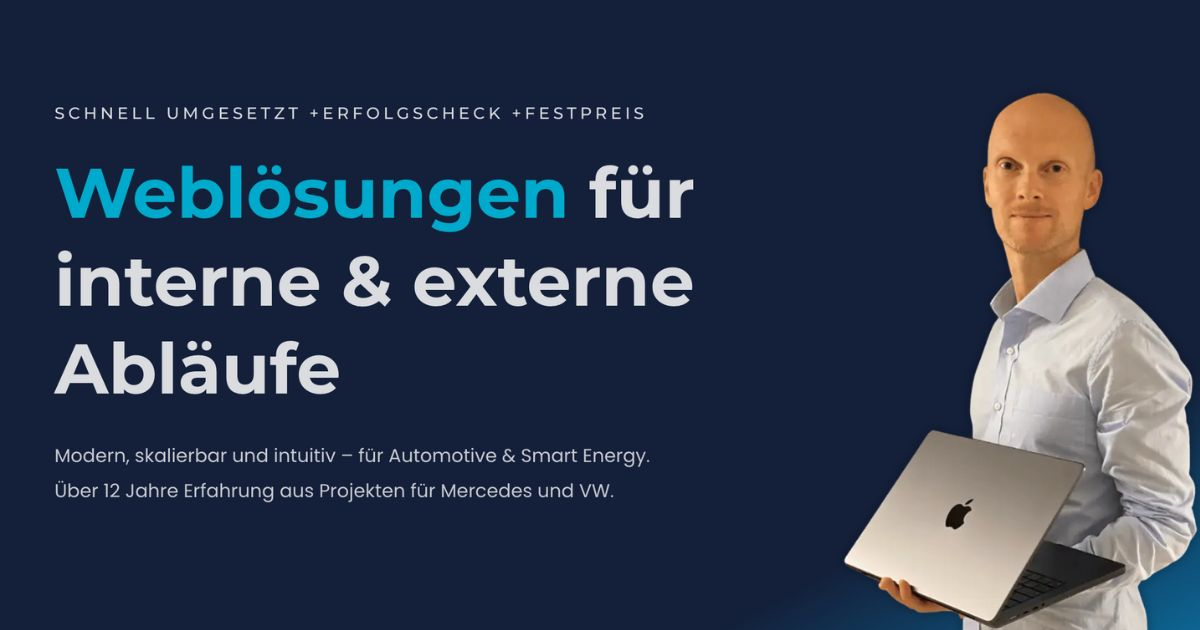
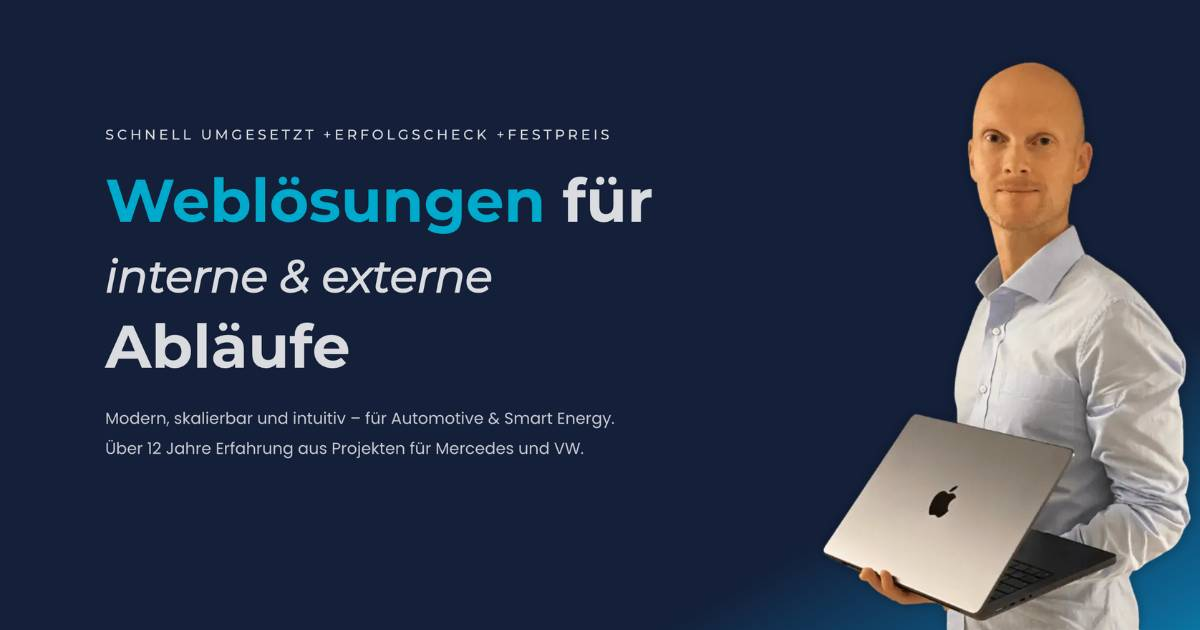
style: Adjust hero title line height and improve text formatting in Hero component

diff --git a/components/Hero.vue b/components/Hero.vue
@@ -9,17 +9,20 @@
             <div class="content">
               <div class="inner">
                 <span class="subtitle"
-                  >Schnell umgesetzt +Erfolgscheck +Festpreis</span
+                  >Schnell umgesetzt +Erfolgscheck&nbsp;+Festpreis</span
                 >
                 <h1 class="title">
-                  <span>Weblösungen</span> für interne & externe Abläufe<br />
+                  <span>Weblösungen</span> für <br /><small
+                    >interne & externe</small
+                  ><br />
+                  Abläufe<br />
                 </h1>
 
                 <div>
                   <p class="description">
-                    Modern, skalierbar und intuitiv – für Automotive & Smart
-                    Energy.<br />Über 12 Jahre Erfahrung aus Projekten für
-                    Mercedes und VW.
+                    Modern, skalierbar und intuitiv – für&nbsp;Automotive &amp;
+                    Smart Energy.<br />
+                    Über 12 Jahre Erfahrung aus Projekten für Mercedes und VW.
                   </p>
                   <a
                     href="https://meet.brevo.com/manuel-wittmann/30-minutiges-meeting"

diff --git a/assets/scss/custom.scss b/assets/scss/custom.scss
@@ -1646,6 +1646,24 @@ li {
   }
 }
 
+.hero .title { 
+  line-height: 70px !important;
+   @media #{$lg-layout} {
+      line-height: 67px !important;
+  }
+   @media #{$md-layout} {
+        line-height: 65px !important;
+  }
+   @media #{$sm-layout} {
+        line-height: 62px !important;
+  }
+  small {
+    font-size: 0.75em;
+    font-style: italic;
+    //line-height: 70px;
+  }
+}
+
 .rn-skill-area {
   .description {
     padding: 50px 0 10px 0;
